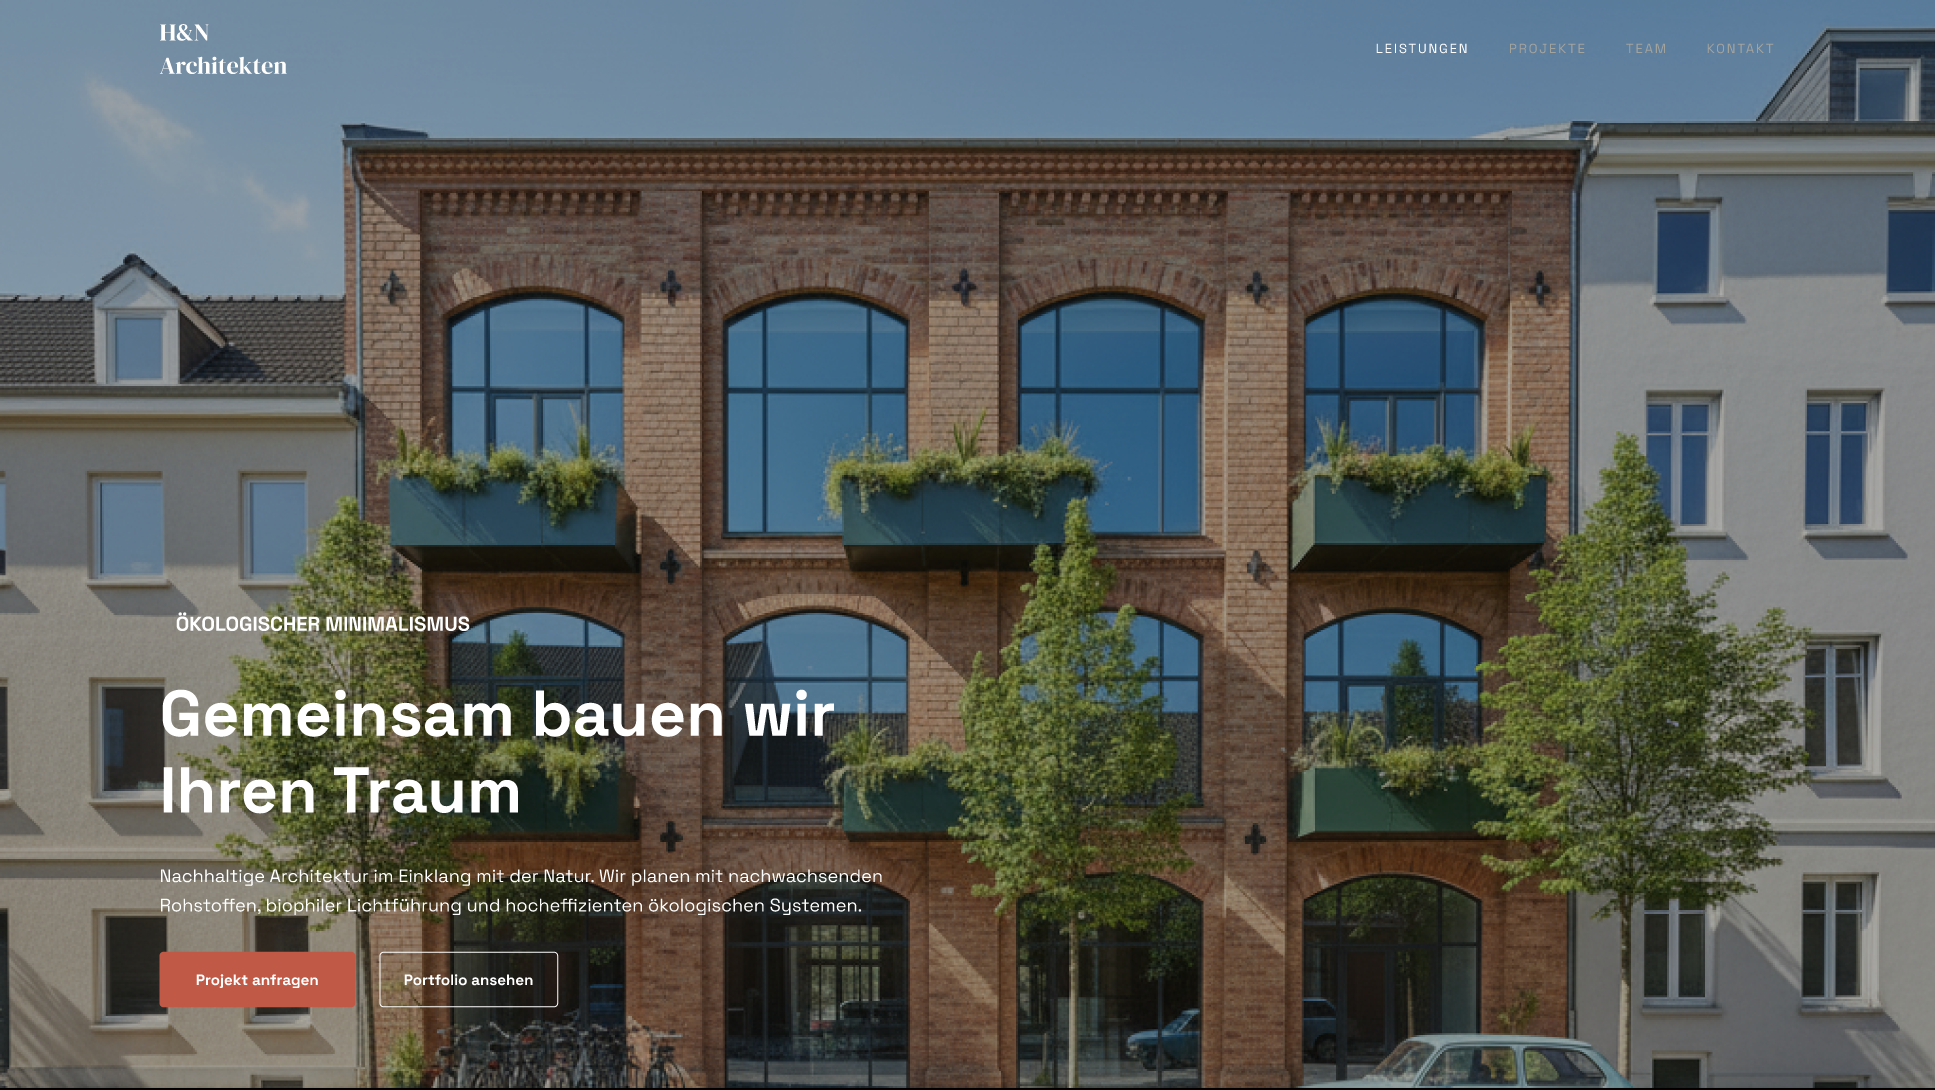
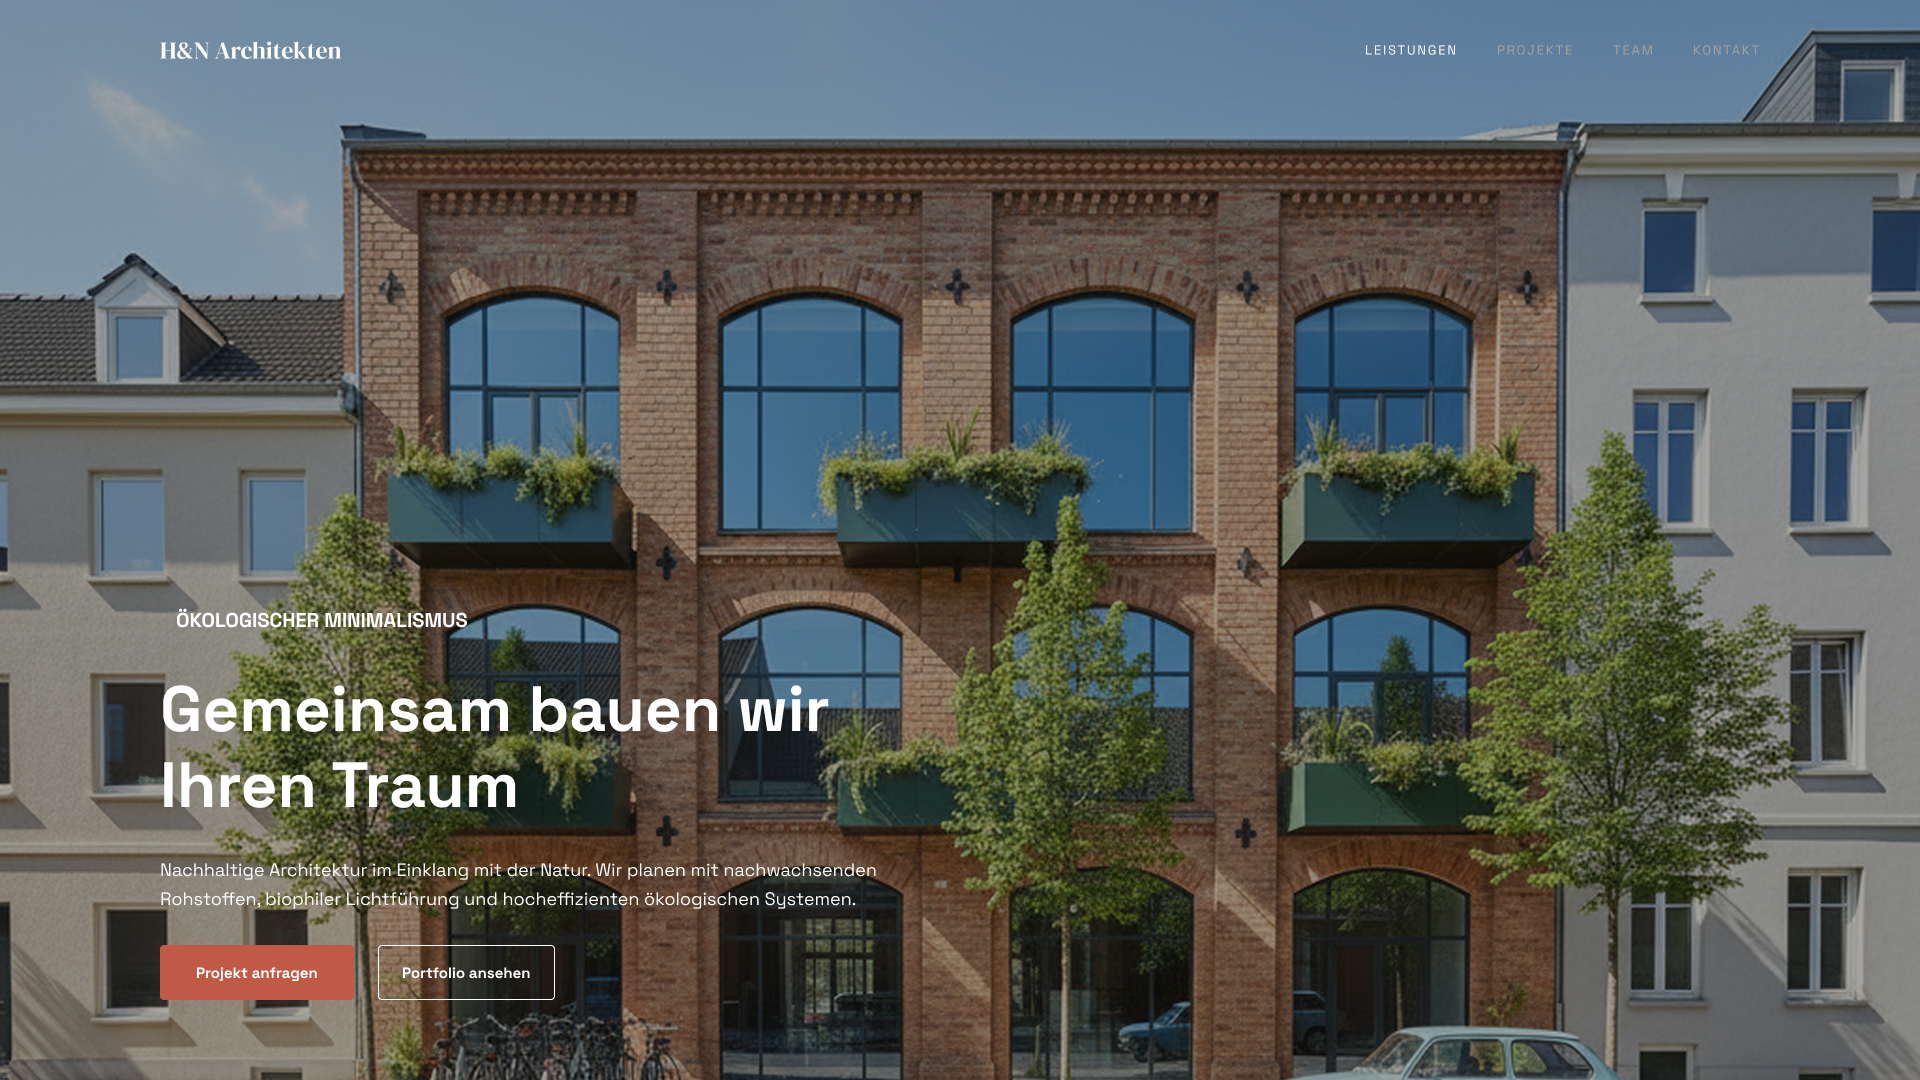
Add changes img size profile mobile

diff --git a/index.html b/index.html
@@ -128,9 +128,9 @@
           <div class="row profile-holder d-flex justify-content-center align-items-center ">
             <!-- Col img -->
             <div
-              class="col-12 col-md-6 col-xl-6 float d-flex align-items-center justify-content-center "
+              class="col-12 col-md-6 col-xl-6  d-flex align-items-center justify-content-center "
             >
-              <img src="/images/photo-frame-container.jpg" class="profile-img float" />
+              <img src="/images/photo-frame-container.jpg" class="profile-img " />
             </div>
             <!-- Text one -->
             <div class="col-11 col-md-6 col-lg-6 col-xl-6 float">

diff --git a/css/profile.css b/css/profile.css
@@ -30,6 +30,9 @@ background-repeat: no-repeat; */
 .profile-text-content{
   width: 20vw !important;
 }
+  .profile-img{
+    width: 85%;
+  }
 
 #bright {
   position: absolute;
@@ -66,7 +69,7 @@ background-repeat: no-repeat; */
     min-height: 80vh; /* Verhindert, dass es kleiner als 80% des Viewports wird */
   }
      .profile-img{
-    width: 63%;
+    width: 60%;
   }
 }
 
@@ -117,7 +120,7 @@ background-repeat: no-repeat; */
 @media (max-width: 767.98px) {
 
   .profile-img{
-    width: 50%;
+    width: 95%;
   }
   .profile-holder {
     position: relative;
